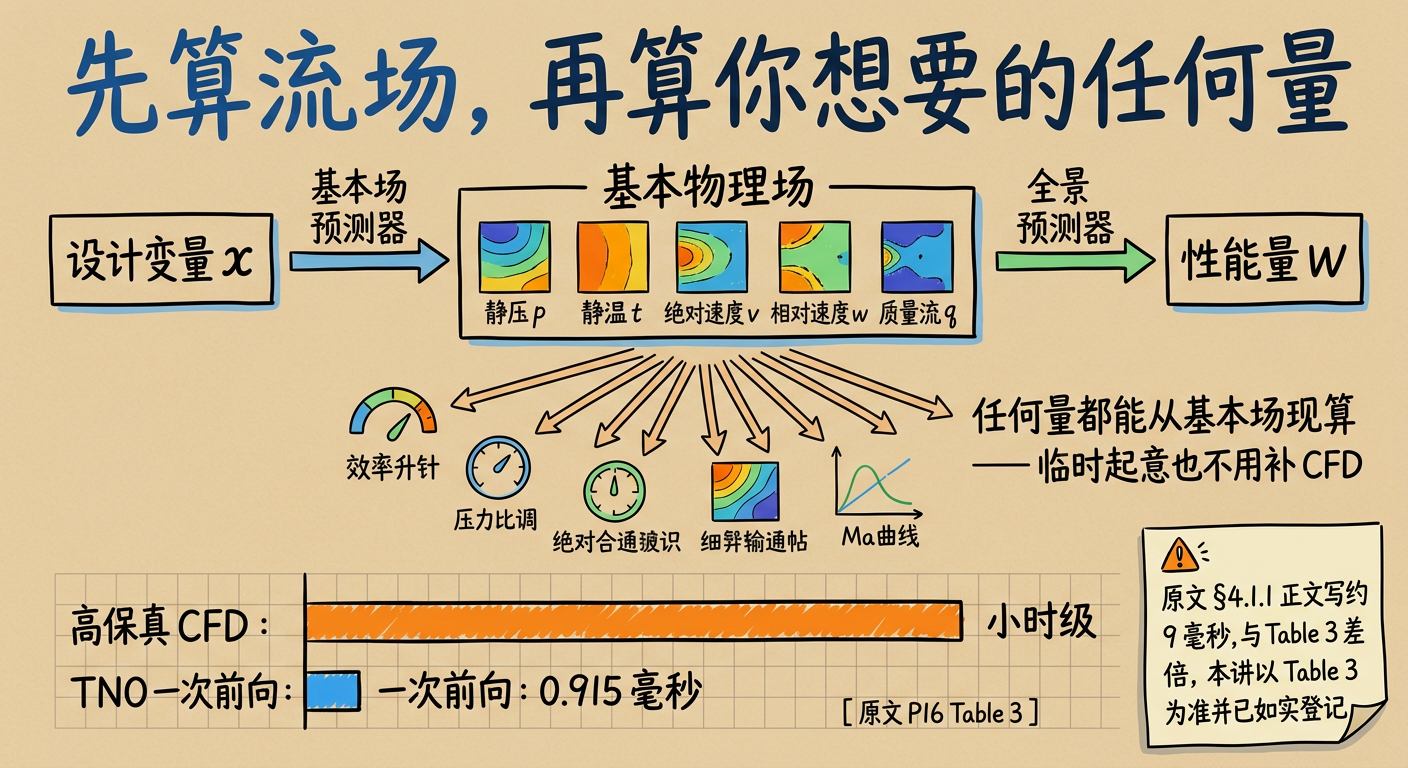
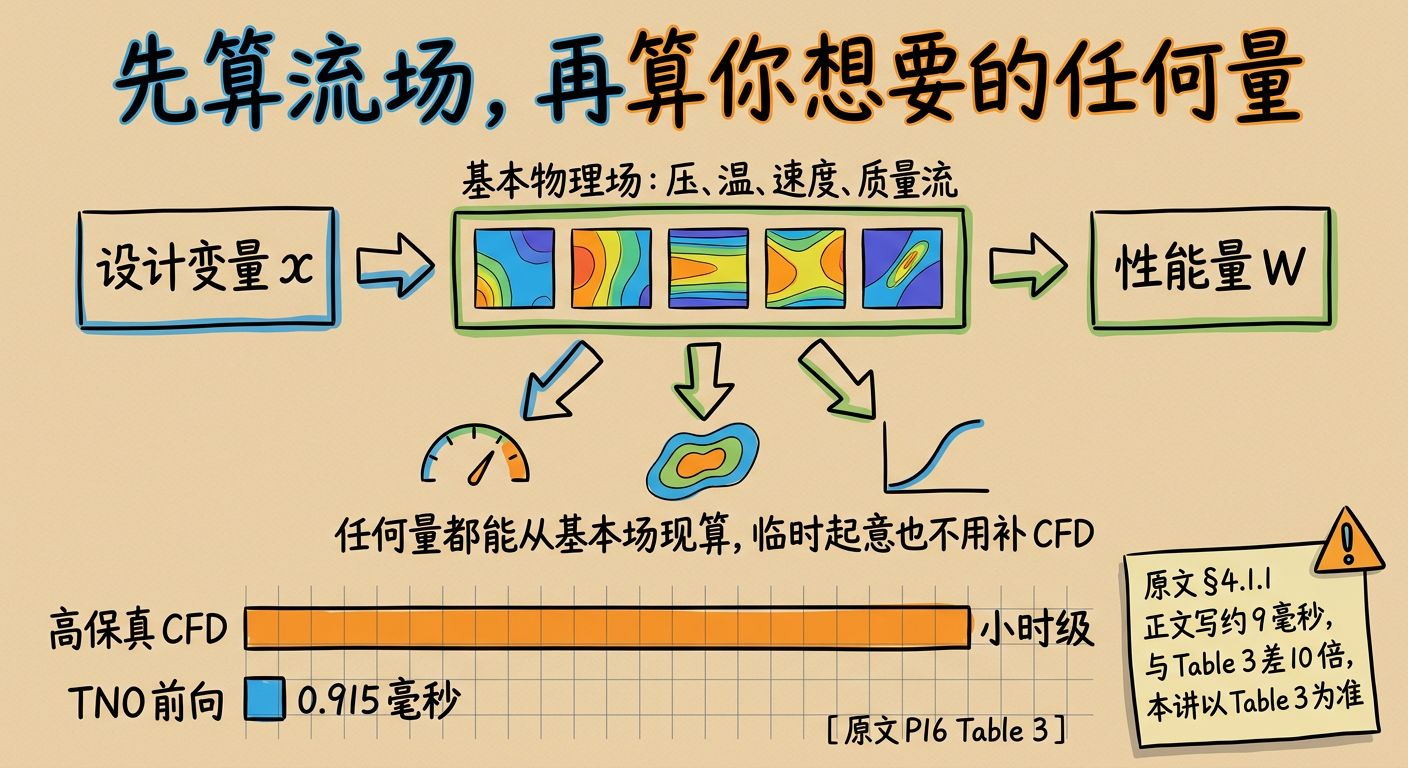
第十轮：返工 1 张 + 续做 8 张（累计 33/41）
返工验收：L10_s3 五个中文乱码词与漏字已清除。'标签少而大'规则确认有效
（文字块 14→8 个），此后固定执行：单图独立文字标签 <= 10 个，宁可拆图不密排小字。

新增 L12(§3)、L13(§2)、L14(§2/§3)、L15(§2/§3)、L16(§2/§3)。
C 概念渲染累计 4 张：端壁三涡系、跨声速叶栅风洞、子午面两段式预测、气膜冷却。

数值校对：L12_s3 误差链 2.84/1.87/1.52/0.31~0.35/0.26 与［原文 P18 Table 1］一致；
L13_s2 的 45+3+45=93 算式与 S/R/D 命名规则正确。

遗留：L16_endwall_vortex 有一处标注重复待返工；
L13_s3（SHAP 蜂群图）模型返回空响应，属服务端偶发，顺延重试。

make verify 41/41；C5 图引用 60->68。

diff --git a/docs/重建计划.md b/docs/重建计划.md
@@ -238,6 +238,7 @@ make selftest        # 反身测试：故意注入缺陷，断言裁判必须变
 | 2026-09-06 第七轮（手绘风配图重做，见 §十一） | **41 / 41** | 图 7/41 完成；C5 图引用 35→42；本轮因内容错误返工 3 次 |
 | 2026-09-06 第八轮（配图续做，见 §十一.五） | **41 / 41** | 图 17/41；C5 引用 42→52；2 张待返工（英文杂字） |
 | 2026-09-06 第九轮（返工＋续做，见 §十一.六） | **41 / 41** | 图 25/41；C5 引用 52→60；C 风格首秀；1 张待返工（中文乱码词） |
+| 2026-09-06 第十轮（返工＋续做，见 §十一.七） | **41 / 41** | 图 33/41；C5 引用 60→68；1 张待返工、1 张生成失败待重试 |
 
 **"18/18 但仍有大量不达标"的根因，是裁判比标准松**。本轮对验收器做了如下收紧，使 PASS 重新有意义：
 
@@ -537,3 +538,25 @@ no English words anywhere」，并对易重复的标注显式写「write this ph
 → 应对：**单图内的独立文字标签控制在 10 个以内**；扇出型标签改为「少而大」，或拆成两张图。
 
 > `make verify`：**41/41**；C5 图引用 52 → **60 处**。C 概念渲染风格首次投入使用（第 11 讲）。
+
+### 七、第十轮：返工 1 张 + 续做 8 张（累计 33/41）
+
+**返工验收**：`L10_s3` 的五个乱码词与漏字已清除。**"标签少而大"规则确认有效**——
+该图独立文字块由 14 个降至 8 个，扇出小标签取消、改为一句总括，全部清晰可读。
+此规则此后固定执行：**单图独立文字标签 ≤ 10 个；宁可拆图，不可密排小字**。
+
+| 图 | 讲·节 | 味道 | 校对结论 |
+| :--- | :--- | :--- | :--- |
+| `L12_s3_physics_enhanced_zh` | 12·§3 | A | ✅ 误差链 2.84/1.87/1.52/0.31~0.35/0.26 与［原文 P18 Table 1］一致 |
+| `L13_s2_93dim_zh` | 13·§2 | B | ✅ 45+3+45=93 算式与命名规则正确 |
+| `L14_s2_pjp_two_solvers_zh` | 14·§2 | B | ✅ |
+| `L14_s3_pod_three_surrogates_zh` | 14·§3 | A | ✅ 三代理分工与 Pareto 前沿（已注明示意） |
+| `L15_s2_meridional_dilemma_zh` | 15·§2 | B | ✅ |
+| `L15_s3_meridional_two_stage_zh` | 15·§3 | C | ✅ 子午面流道/静子转子/两段式，误差 <1% 出处齐全 |
+| `L16_endwall_vortex_render_zh` | 16·§2 | C | ⚠ "分成压力侧腿与吸力侧腿"重复两次 → **待返工** |
+| `L16_transonic_cascade_windtunnel_zh` | 16·§3 | C | ✅ |
+
+**生成失败 1 张**：`L13_s3`（SHAP 蜂群图）模型返回空响应（`Response contains no images`），
+非内容违规，属服务端偶发，顺延重试。
+
+> `make verify`：**41/41**；C5 图引用 60 → **68 处**。C 概念渲染累计 4 张（11·§2、15·§3、16·§2、16·§3）。

diff --git a/docs/lectures/15.md b/docs/lectures/15.md
@@ -38,6 +38,8 @@
 
 #### 2. 叶轮机械中的真实工程死穴：方案论证阶段"要么太粗、要么太贵"
 
+![方案论证阶段通流方法与三维 RANS 的两难（meridional dilemma，手绘笔记版）](./images/L15_s2_meridional_dilemma_zh.png)
+
 工程上真正卡住的不是"最终型号要不要精算"，而是**方案论证阶段**：在几十上百个级配对、几十种子午面轮廓之间筛掉不可行的，留下两三个进入三维设计。这个筛子两端的现状是：
 
 | 可选工具 | 为什么不能用 |
@@ -59,6 +61,8 @@
 > 📌 **必须诚实说明**："包含 N-S 方程的特征"到底是把残差写进损失、把守恒量当中间输出、还是把方程结构编进算子——**摘要没说，正文未获取，本讲不推测**。能确认的只有"两段式：先基本场后性能"这一层。
 
 #### 3. 数学公式：摘要给了骨架，细节不推导
+
+![子午面流道与两段式预测框架（meridional two stage，概念渲染＋手写批注版）](./images/L15_s3_meridional_two_stage_zh.png)
 
 ![子午面几何与两段式物理增强预测（meridional physics AI，中文标注版）](./images/meridional_physics_ai_zh.png)
 

diff --git a/docs/lectures/12.md b/docs/lectures/12.md
@@ -48,6 +48,8 @@
 
 #### 3. 数学公式从 0 到 1 推导
 
+![无量纲输入与物理增强的误差对比（physics enhanced，数值见［原文 P18 Table 1］，手绘手账版）](./images/L12_s3_physics_enhanced_zh.png)
+
 ![相似原理入输入与物理增强收益对比（P-ResUNet similarity physics，中文标注版）](./images/presunet_similarity_physics_zh.png)
 
 > 上图是本讲全部数学的「一张图版本」：**左图**是数据流——无量纲输入（几何 + 工况相似参数）过 ResUNet 主干，中间先预测**表面等熵马赫数分布**作为物理约束，再输出总压损失系数；**右图**是核心结论——结构改进（灰柱：MLP 2.84 → UNet 1.87 → ResUNet 1.52）只是渐进改善，物理增强（橙/蓝柱）把误差直接压到 0.31–0.35，P-ResUNet 达 **0.26**，较 ResUNet 约 **5.8 倍**改善［原文 P18 Table 1；倍数由本讲计算：1.52/0.26≈5.8］。

diff --git a/docs/lectures/16.md b/docs/lectures/16.md
@@ -33,6 +33,8 @@
 
 #### 2. 叶轮机械中的真实工程死穴：端壁上盘踞着三个涡
 
+![端壁三涡系：马蹄涡、通道涡与角涡（endwall vortex render，概念渲染＋手写批注版）](./images/L16_endwall_vortex_render_zh.png)
+
 ![涡轮叶片通道涡系（turbine blade vortex systems，中文标注版）](./images/turbine_blade_vortex_systems_zh.png)
 
 ![涡轮叶片通道涡系（turbine blade vortex systems，英文标注版）](./images/turbine_blade_vortex_systems.png)
@@ -50,6 +52,8 @@
 > **一句话**：端壁问题的本质，是**三个涡把热气往壁面上按、把冷气从壁面上掀**。
 
 #### 3. 数学公式从 0 到 1 推导
+
+![跨声速叶栅风洞试验段与激波附面层干涉（transonic cascade windtunnel，概念渲染＋手写批注版）](./images/L16_transonic_cascade_windtunnel_zh.png)
 
 **第一步：三个必须同时看的性能指标**
 

diff --git a/docs/lectures/14.md b/docs/lectures/14.md
@@ -37,6 +37,8 @@
 
 #### 2. 叶轮机械中的真实工程死穴：两套仿真，两份昂贵
 
+![泵喷推进器的双仿真成本与维数灾难（pjp two solvers，手绘笔记版）](./images/L14_s2_pjp_two_solvers_zh.png)
+
 传统的 PJP 设计有多贵？原文在引言中引用了同行的 CFD 分析工作：
 
 > 分析斜流、空化与叶尖间隙流场，**整体计算耗时超过一个月**。［原文 P15 §I］
@@ -56,6 +58,8 @@
 | 叶片应力场 | **StressGNN**（本文提出的图神经网络） | 替代 FEM 结构分析 |
 
 #### 3. 数学公式从 0 到 1 推导
+
+![POD 压缩与 GPR/POD/GNN 三代理分工（pod three surrogates，手绘手账版）](./images/L14_s3_pod_three_surrogates_zh.png)
 
 ![泵喷推进器流固耦合数字孪生流水线（PJP digital twin，中文标注版）](./images/pjp_digital_twin_zh.png)
 

diff --git a/docs/lectures/13.md b/docs/lectures/13.md
@@ -33,6 +33,8 @@
 
 #### 2. 叶轮机械中的真实工程死穴：93 维，人脑完全无法理解
 
+![93 维设计空间的构成与命名规则（93dim，手绘笔记版）](./images/L13_s2_93dim_zh.png)
+
 本文的设计空间有多大？**93 维**。
 
 | 部件 | 变量构成 |
